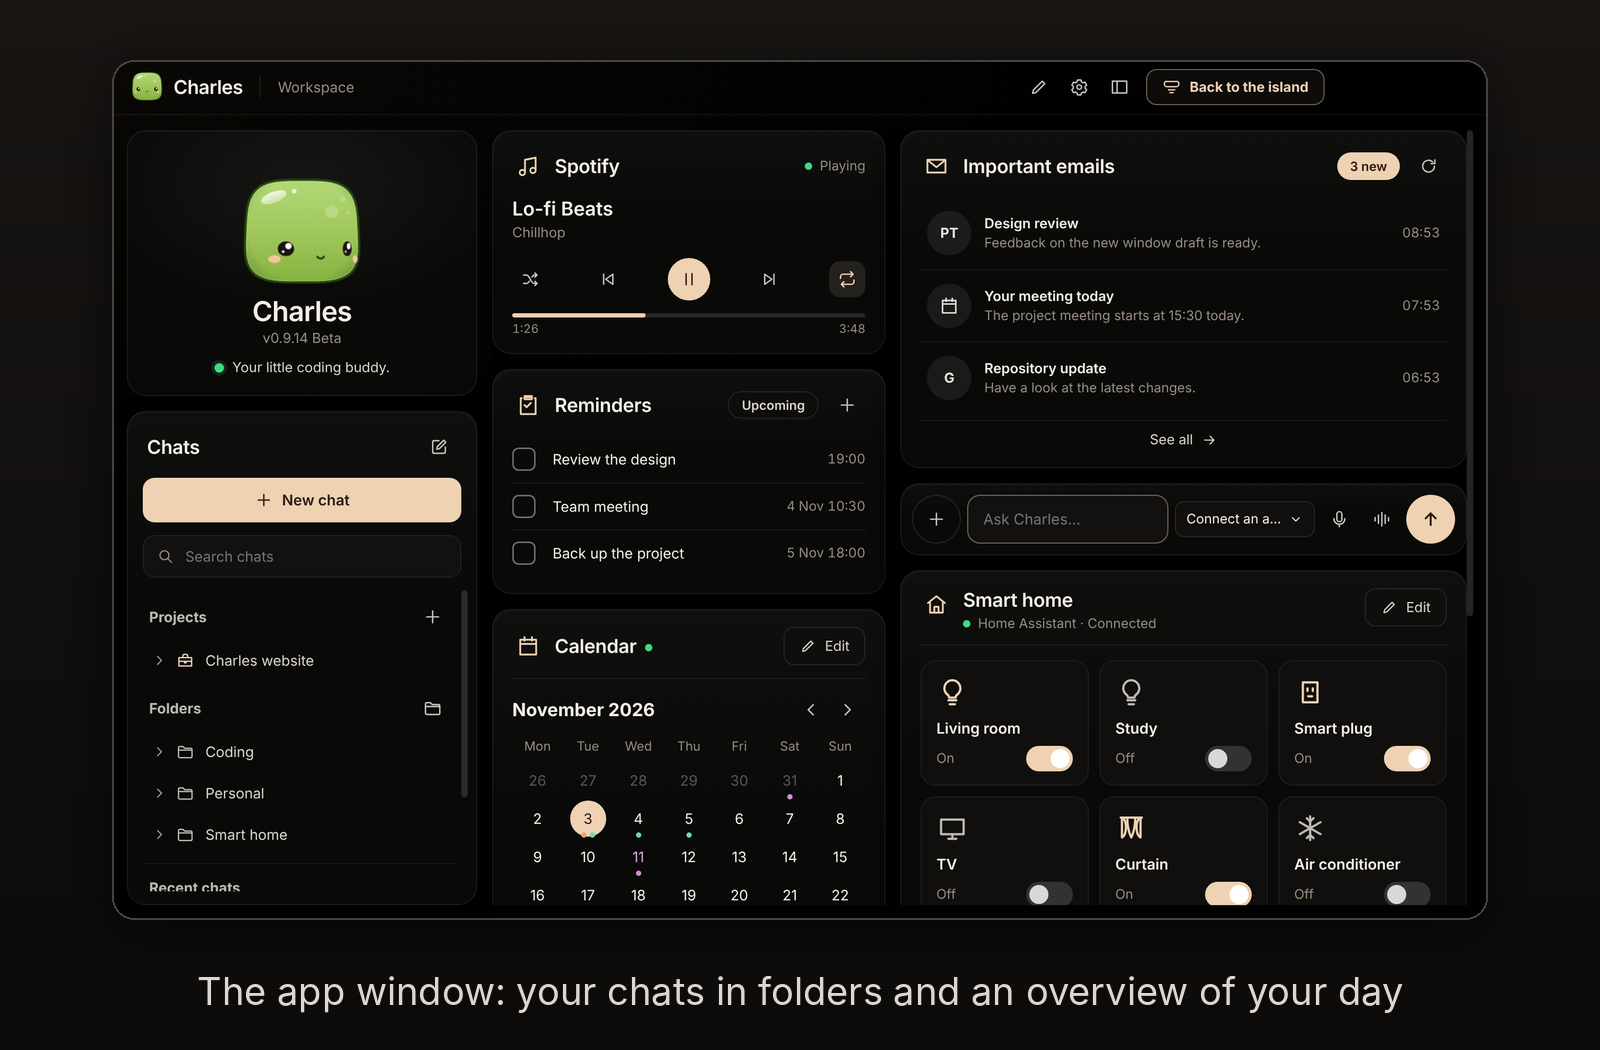
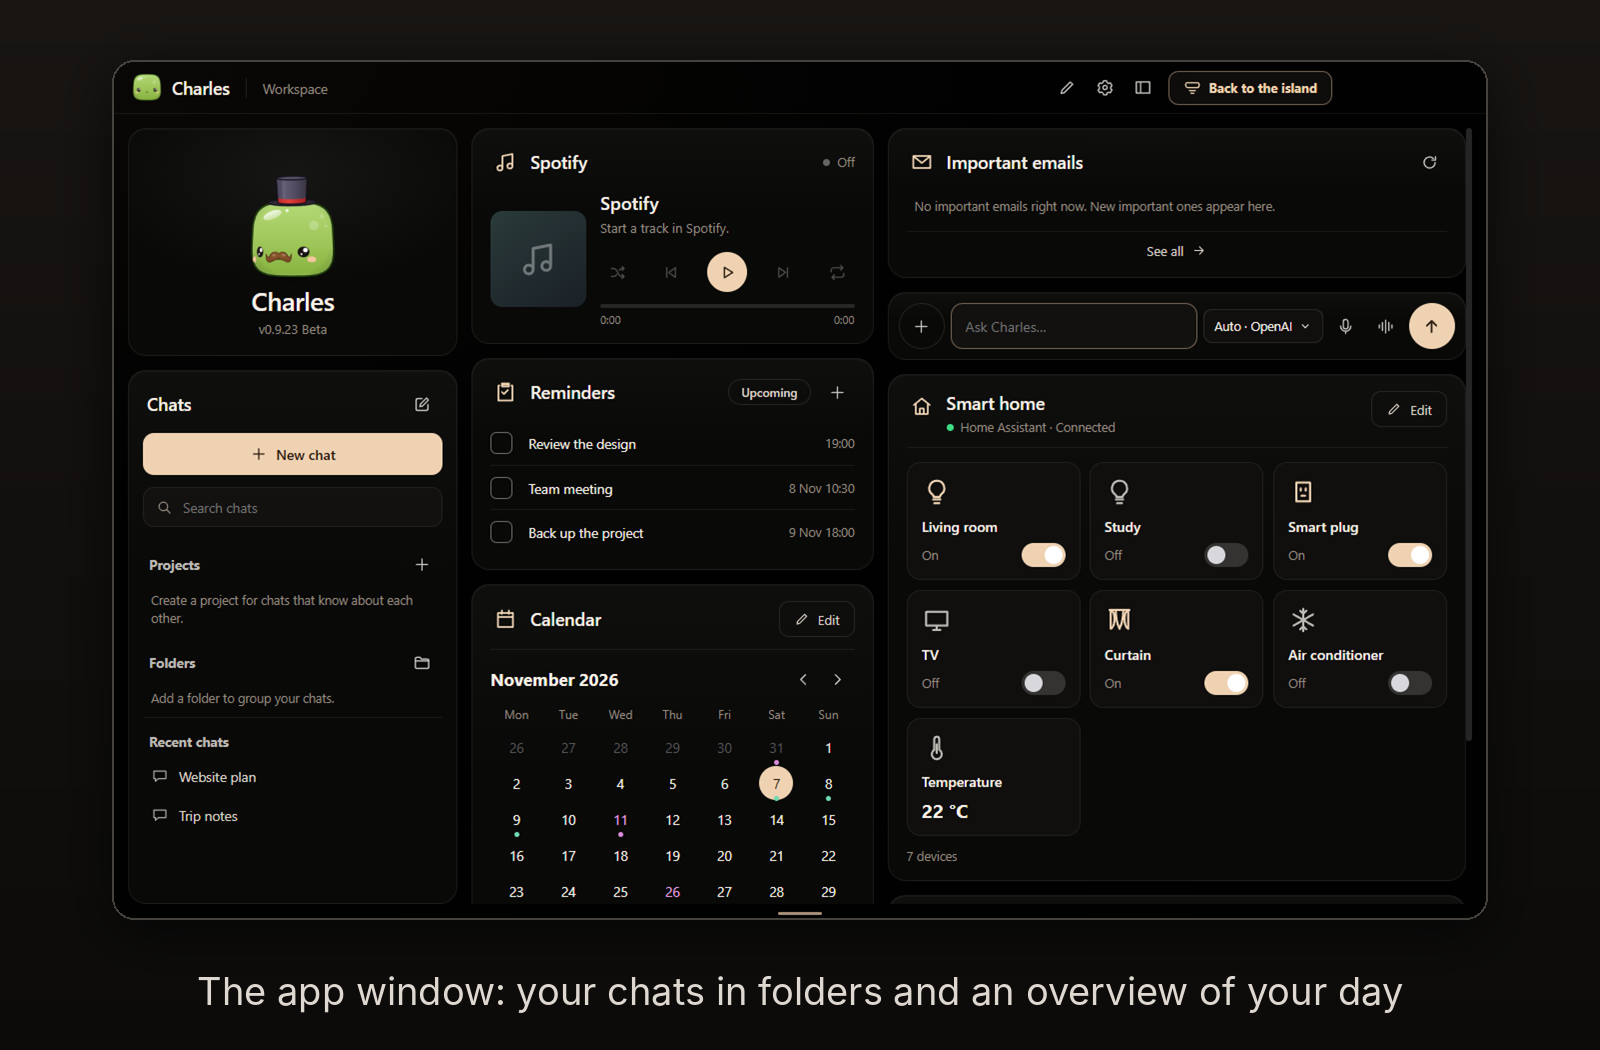
v0.9.23 Beta Update

diff --git a/public/styles/39-v0923.css b/public/styles/39-v0923.css
@@ -1,0 +1,76 @@
+/* v0.9.23 */
+
+/* --- Links in the chat ---------------------------------------------------------------------------
+   Cream on a cream bubble could not be read. One light grey on every message background. */
+:root {
+  --ch-link: #dcdad6;
+  --ch-link-hover: #ffffff;
+}
+#feed .markdown a,
+#feed .markdown a:visited {
+  color: var(--ch-link);
+  text-decoration: underline;
+  text-decoration-color: rgba(220, 218, 214, 0.6);
+  text-underline-offset: 2px;
+  overflow-wrap: anywhere;
+}
+#feed .markdown a:hover {
+  color: var(--ch-link-hover);
+  text-decoration-color: currentColor;
+}
+#feed .markdown a:focus-visible {
+  outline: 2px solid var(--sb-accent);
+  outline-offset: 2px;
+  border-radius: 2px;
+}
+
+/* --- The same message in both places: only what the app window's width asks for differs ---------- */
+body.workspace #feed .message.user {
+  border: 1px solid var(--ch-bubble-line) !important;
+  border-top-color: var(--ch-bubble-top) !important;
+  border-radius: var(--ch-bubble-radius) !important;
+  background: var(--ch-bubble) !important;
+  color: var(--ch-bubble-text) !important;
+}
+body.workspace #feed .message.user.with-files {
+  padding: 0 !important;
+  border: 0 !important;
+  background: none !important;
+}
+body.workspace #feed .message.user.with-files > .user-text {
+  padding: 12px 18px;
+}
+#feed .message.user.with-files.editing {
+  align-items: stretch;
+}
+body.workspace #feed .message.user.editing {
+  width: min(100%, 560px) !important;
+  max-width: 100% !important;
+}
+
+/* the box's corners are rounder here: the cards keep clear of them */
+body.workspace .ws-chat-body #attachments:not(:empty),
+body.workspace .ws-chat-body #drop-actions:not([hidden]) {
+  margin-right: 14px;
+  margin-left: 14px;
+}
+body.workspace .ws-chat-body #attachments:not(:empty) {
+  margin-top: 6px;
+}
+
+/* a low app window: the cards get smaller before the chat gives way */
+@media (max-height: 640px) {
+  body.workspace .ws-chat-body #drop-actions,
+  body.workspace .ws-composer-hint {
+    display: none;
+  }
+  body.workspace .ws-chat-body .attachment-card {
+    grid-template-rows: 46px auto;
+  }
+  body.workspace .ws-chat-body #composer .attachment-preview {
+    height: 46px;
+  }
+  body.workspace .ws-chat-body .attachment-name {
+    -webkit-line-clamp: 1;
+  }
+}

diff --git a/src/workspace/workspace.ts b/src/workspace/workspace.ts
@@ -103,15 +103,12 @@ export function workspaceUI(d: WorkspaceDeps) {
 
   // left column
   const petSlot = el('div', 'ws-pet-slot');
-  const statusDot = el('i', 'ws-dot');
-  const statusText = el('span', '', 'Hazır');
   const profile = el(
     'section',
     'ws-card ws-profile',
     petSlot,
     el('strong', 'ws-name', 'Charles'),
     el('small', 'ws-version', d.version),
-    el('span', 'ws-status', statusDot, statusText),
   );
   const sidebar = workspaceSidebar({ api, notice: d.notice, opened: () => showChat() });
   const side = el('aside', 'ws-side', profile, sidebar.element);
@@ -413,18 +410,6 @@ export function workspaceUI(d: WorkspaceDeps) {
   }
   api.onPersonal?.((p: any) => on && void avatar(p));
 
-  // Status of the AI connection and Charles himself
-  const status = $('status');
-  const paintStatus = () => {
-    const text = (status.textContent || '').trim();
-    statusText.textContent = text && text.length < 40 ? text : 'Hazır';
-    const account = ($('account').textContent || '').trim();
-    const ok = !/Bağlı değil|Not connected/i.test(account);
-    statusDot.classList.toggle('off', !ok);
-  };
-  new MutationObserver(paintStatus).observe(status, { childList: true, characterData: true, subtree: true });
-  new MutationObserver(paintStatus).observe($('account'), { childList: true, characterData: true, subtree: true });
-
   // ── Settings: a roomier window with a side menu ───────────────────────────
   function decorateSettings() {
     const nav = document.getElementById('settings-categories');
@@ -513,7 +498,6 @@ export function workspaceUI(d: WorkspaceDeps) {
       void avatar();
       petSlot.append(pet);
       chatBody.append(content);
-      paintStatus();
       void sidebar.refresh();
       showHome();
     } else {

diff --git a/public/styles/9-special.css b/public/styles/9-special.css
@@ -356,14 +356,6 @@ body.workspace .ws-pet-slot #slime {
   color: var(--ws-muted);
   font-size: 13px;
 }
-.ws-status {
-  display: inline-flex;
-  align-items: center;
-  gap: 8px;
-  margin-top: 10px;
-  color: var(--ws-body);
-  font-size: 13px;
-}
 .ws-dot {
   display: inline-block;
   width: 9px;
@@ -1493,18 +1485,14 @@ body.workspace #feed .message {
   font-size: 15px;
   line-height: 1.6;
 }
-/* user: accent bubble on the right, with the time beside it */
+/* user: against the right edge, the time on its left; its colours are the island's (39-v0923.css) */
 body.workspace #feed .message.user {
   position: relative;
   width: fit-content !important;
   margin-left: auto !important;
-  margin-right: 52px !important;
+  margin-right: 0 !important;
   max-width: min(72%, 680px) !important;
   padding: 12px 18px !important;
-  border: 0 !important;
-  border-radius: 16px 16px 4px 16px !important;
-  background: var(--ws-accent) !important;
-  color: var(--ws-accent-ink) !important;
   box-shadow: none !important;
   overflow: visible !important;
   /* content-visibility: auto (4-polish.css) clips paint to the bubble: the time and the
@@ -1528,7 +1516,7 @@ body.workspace #feed .message.user .edit-message:focus-visible {
 body.workspace #feed .message.user[data-ws-meta]::after {
   content: attr(data-ws-meta);
   position: absolute;
-  right: -46px;
+  right: calc(100% + 42px);
   top: 12px;
   color: var(--ws-muted);
   font-size: 12px;

diff --git a/public/styles/38-v0922.css b/public/styles/38-v0922.css
@@ -380,14 +380,12 @@ body.workspace #settings-panel[open] #settings-categories button[aria-pressed='t
 .message.user.with-files > .user-text {
   max-width: 100%;
   padding: 13px 16px;
-  border: 1px solid rgba(238, 210, 178, 0.18);
-  border-top-color: rgba(238, 210, 178, 0.26);
-  border-radius: 18px 18px 5px 18px;
-  background:
-    linear-gradient(180deg, rgba(238, 210, 178, 0.15), rgba(238, 210, 178, 0.08)),
-    rgba(var(--ac-base), 0.45);
+  border: 1px solid var(--ch-bubble-line);
+  border-top-color: var(--ch-bubble-top);
+  border-radius: var(--ch-bubble-radius);
+  background: var(--ch-bubble);
 }
-.message.user.with-files > .user-text:empty {
+.message.user.with-files > .user-text[hidden] {
   display: none;
 }
 .message.user.with-files > .edit-message {
@@ -398,16 +396,18 @@ body.workspace #settings-panel[open] #settings-categories button[aria-pressed='t
   justify-content: flex-end;
   margin: 0;
 }
+/* the frame is as wide as the picture shown: wider, and the picture stood away from the right edge */
 .message-attachments figure {
-  max-width: 100%;
+  max-width: min(240px, 100%);
 }
 .message-attachments figure:has(.sent-file) {
   display: flex;
   flex: 0 0 100%;
   justify-content: flex-end;
+  max-width: 100%;
 }
 .message-attachments img {
-  max-width: min(240px, 100%);
+  max-width: 100%;
   max-height: 220px;
   border-radius: 16px;
 }

diff --git a/public/styles/10-noir.css b/public/styles/10-noir.css
@@ -23,6 +23,12 @@
   --ac-edge-top: rgba(255, 236, 214, 0.14);
   --ac-warm: rgba(238, 210, 178, 0.06);
   --ac-cool: rgba(238, 210, 178, 0.025);
+  /* the user's bubble, in the island and the app window alike */
+  --ch-bubble: linear-gradient(180deg, rgba(238, 210, 178, 0.15), rgba(238, 210, 178, 0.08)), rgba(var(--ac-base), 0.45);
+  --ch-bubble-line: rgba(238, 210, 178, 0.18);
+  --ch-bubble-top: rgba(238, 210, 178, 0.26);
+  --ch-bubble-radius: 18px 18px 6px 18px;
+  --ch-bubble-text: #e9e9ed;
 }
 
 /* ── Island: warm black glass, still slightly see-through ─────────────────────── */
@@ -43,11 +49,9 @@ body:not(.desktop-pet):not(.hidden-island) .island {
     rgba(var(--ac-base), 0.6);
 }
 .message.user {
-  background:
-    linear-gradient(180deg, rgba(238, 210, 178, 0.15), rgba(238, 210, 178, 0.08)),
-    rgba(var(--ac-base), 0.45);
-  border-color: rgba(238, 210, 178, 0.18);
-  border-top-color: rgba(238, 210, 178, 0.26);
+  background: var(--ch-bubble);
+  border-color: var(--ch-bubble-line);
+  border-top-color: var(--ch-bubble-top);
 }
 #settings-panel,
 #sessions-panel,

diff --git a/public/index.html b/public/index.html
@@ -42,6 +42,7 @@
     <link rel="stylesheet" href="styles/36-v0919.css" />
     <link rel="stylesheet" href="styles/37-v0920.css" />
     <link rel="stylesheet" href="styles/38-v0922.css" />
+    <link rel="stylesheet" href="styles/39-v0923.css" />
   </head>
   <body>
     <main class="island">
@@ -77,7 +78,7 @@
         </button>
         <button id="toggle" class="identity" >
           <strong>Charles</strong
-          ><small class="version-label">v0.9.22 Beta</small><small id="status">Senin küçük kod arkadaşın.</small>
+          ><small class="version-label">v0.9.23 Beta</small><small id="status">Senin küçük kod arkadaşın.</small>
         </button>
         <aside id="mini-music" aria-label="Spotify">
           <strong id="music-title">Spotify</strong

diff --git a/src/settings/settings-pages.ts b/src/settings/settings-pages.ts
@@ -278,6 +278,14 @@ export function settingsPages(api: any) {
   };
   text.addEventListener('input', size);
   composer.addEventListener('submit', () => setTimeout(size, 0));
+  // v0.9.23: the box changes width and font between the island and the app window: the same draft
+  // takes another height there
+  let width = 0;
+  new ResizeObserver(() => {
+    if (!text.clientWidth || text.clientWidth === width) return;
+    width = text.clientWidth;
+    size();
+  }).observe(text);
   // Preserve screen capture and speech playback under General without cluttering +.
   const speech = document.createElement('section');
   speech.className = 'setting-section';

diff --git a/src/renderer.ts b/src/renderer.ts
@@ -531,6 +531,7 @@ function row(text: string, className = '', attachments: any[] = []) {
     const copy = document.createElement('span');
     copy.innerHTML = renderMarkdown(text);
     copy.className = 'user-text markdown';
+    copy.hidden = !text.trim(); // files sent with no words: no empty bubble under them
     const edit = document.createElement('button');
     edit.className = 'edit-message';
     edit.title = 'Mesajı düzenle';

diff --git a/public/styles/15-v085.css b/public/styles/15-v085.css
@@ -86,4 +86,4 @@ body #feed .markdown .math-display.copied .math-copy { opacity: 1; color: #8fdc9
   font-weight: 650;
   cursor: pointer;
 }
-body.workspace #feed .steer-pending { margin-right: 52px; }
+body.workspace #feed .steer-pending { margin-right: 0; }

diff --git a/CHANGELOG.md b/CHANGELOG.md
@@ -4,6 +4,15 @@ Charles’ın ilk masaüstü sürümünden bu yana eklenen özellikler, değişe
 
 **Sürüm numaraları:** İlk geliştirme döneminde v1, v2 ve v3 adları kullanıldı. Proje beta aşamasında olduğu için v3.2.2’den sonraki sürüm **v0.4 Beta** olarak adlandırıldı. Bu bir geri dönüş değil, numaralandırma değişikliği. Beta boyunca 0.x sürümleri kullanılacak; v1.0 ile beta dönemi tamamlanacak.
 
+## v0.9.23 Beta — November 7, 2026
+
+- **Links in the chat:** links are now a light grey with an underline in your messages and in Charles's answers, in the island and in the app window. On the old cream bubble they could hardly be read. Long addresses wrap inside the message.
+- **One message style:** the app window now uses the island's dark bubble instead of the cream one, and your messages stand against the right edge. The time moved to the left of the message.
+- **Attachments in the app window:** the layout from v0.9.22 did not apply there: pictures and files sat on a cream block. Pictures and file cards now stand alone above the text, as on the island. In a low window the cards get smaller so the chat keeps its room.
+- **Pictures on the right:** a sent picture stood away from the right edge. It now lines up with the text and file cards under it, on the island too.
+- **Files without text:** a message with only attachments no longer shows an empty bubble under them.
+- **Charles card in the app window:** the status text and the coloured light under Charles are gone.
+
 ## v0.9.22 Beta — November 7, 2026
 
 - **Push to talk on Right + Up:** the default is now the Right and Up arrow keys held together, in either order. Each arrow still works on its own, a moment later, and the pair does not move the cursor in the app you are typing in. Hold the pair to record and let go to finish. Two quick presses of the pair start hands-free recording, one more ends it, and Esc cancels. If you never chose a key, you move to the new default by yourself; a key you chose stays.

diff --git a/README.md b/README.md
@@ -3,7 +3,7 @@
 </p>
 
 <p align="center">
-  <img alt="Version" src="https://img.shields.io/badge/version-v0.9.22%20beta-edc9a9?style=flat-square">
+  <img alt="Version" src="https://img.shields.io/badge/version-v0.9.23%20beta-edc9a9?style=flat-square">
   <img alt="Platform" src="https://img.shields.io/badge/platform-Windows%2010%20%7C%2011%20x64-2b2f3a?style=flat-square">
   <a href="LICENSE"><img alt="License: GPL v3 or later" src="https://img.shields.io/badge/license-GPL--3.0--or--later-blue?style=flat-square"></a>
   <img alt="Electron" src="https://img.shields.io/badge/Electron-44-47848f?style=flat-square">
@@ -34,6 +34,7 @@ laptop while it writes code, and gets dizzy if you shake him too hard.
 
 | Version | What’s new |
 | --- | --- |
+| **v0.9.23** | Readable links in the chat · the app window uses the island's dark message style, with your messages on the right · attachments in the app window match the island · sent pictures line up on the right · no status line under Charles in the app window |
 | **v0.9.22** | Push to talk on Right + Up, and the key can be changed again · attachments on cards inside the message box · one black theme for Settings and Review changes · no shadow under Charles on the desktop · long chats open without freezing |
 | **v0.9.21** | Settings open every time in the app window · dropping a shelf file on a name that already exists no longer freezes the mouse · Quick Share asks in the app window too |
 | **v0.9.20** | One small helper instead of several PowerShell processes · mail dates no longer open Outlook by themselves · shelf files drag like files on the desktop · a Small size for the island |

diff --git a/DEVELOPMENT.md b/DEVELOPMENT.md
@@ -262,6 +262,11 @@ the content. The open panel does not change.
 box; with `{ text, attachments? }` (an edited bubble, a button on the content card) it leaves the box
 and its draft alone. It resolves true once `api.send` accepted the message.
 
+### Message style
+The user's bubble has one definition, the `--ch-bubble*` variables in `10-noir.css`. The island, the app
+window (`39-v0923.css`) and the text of a message with files (`38-v0922.css`) all read them. `body.workspace`
+rules in `9-special.css` use `!important`, so a rule for the shared chat must be checked in both places.
+
 ### Attachments
 `src/chat/attachment-card.ts` draws both forms: the card in the message box (`attachmentCard`) and the
 file in a sent message (`sentFile`; a picture there is only the picture). `title` is removed from every
